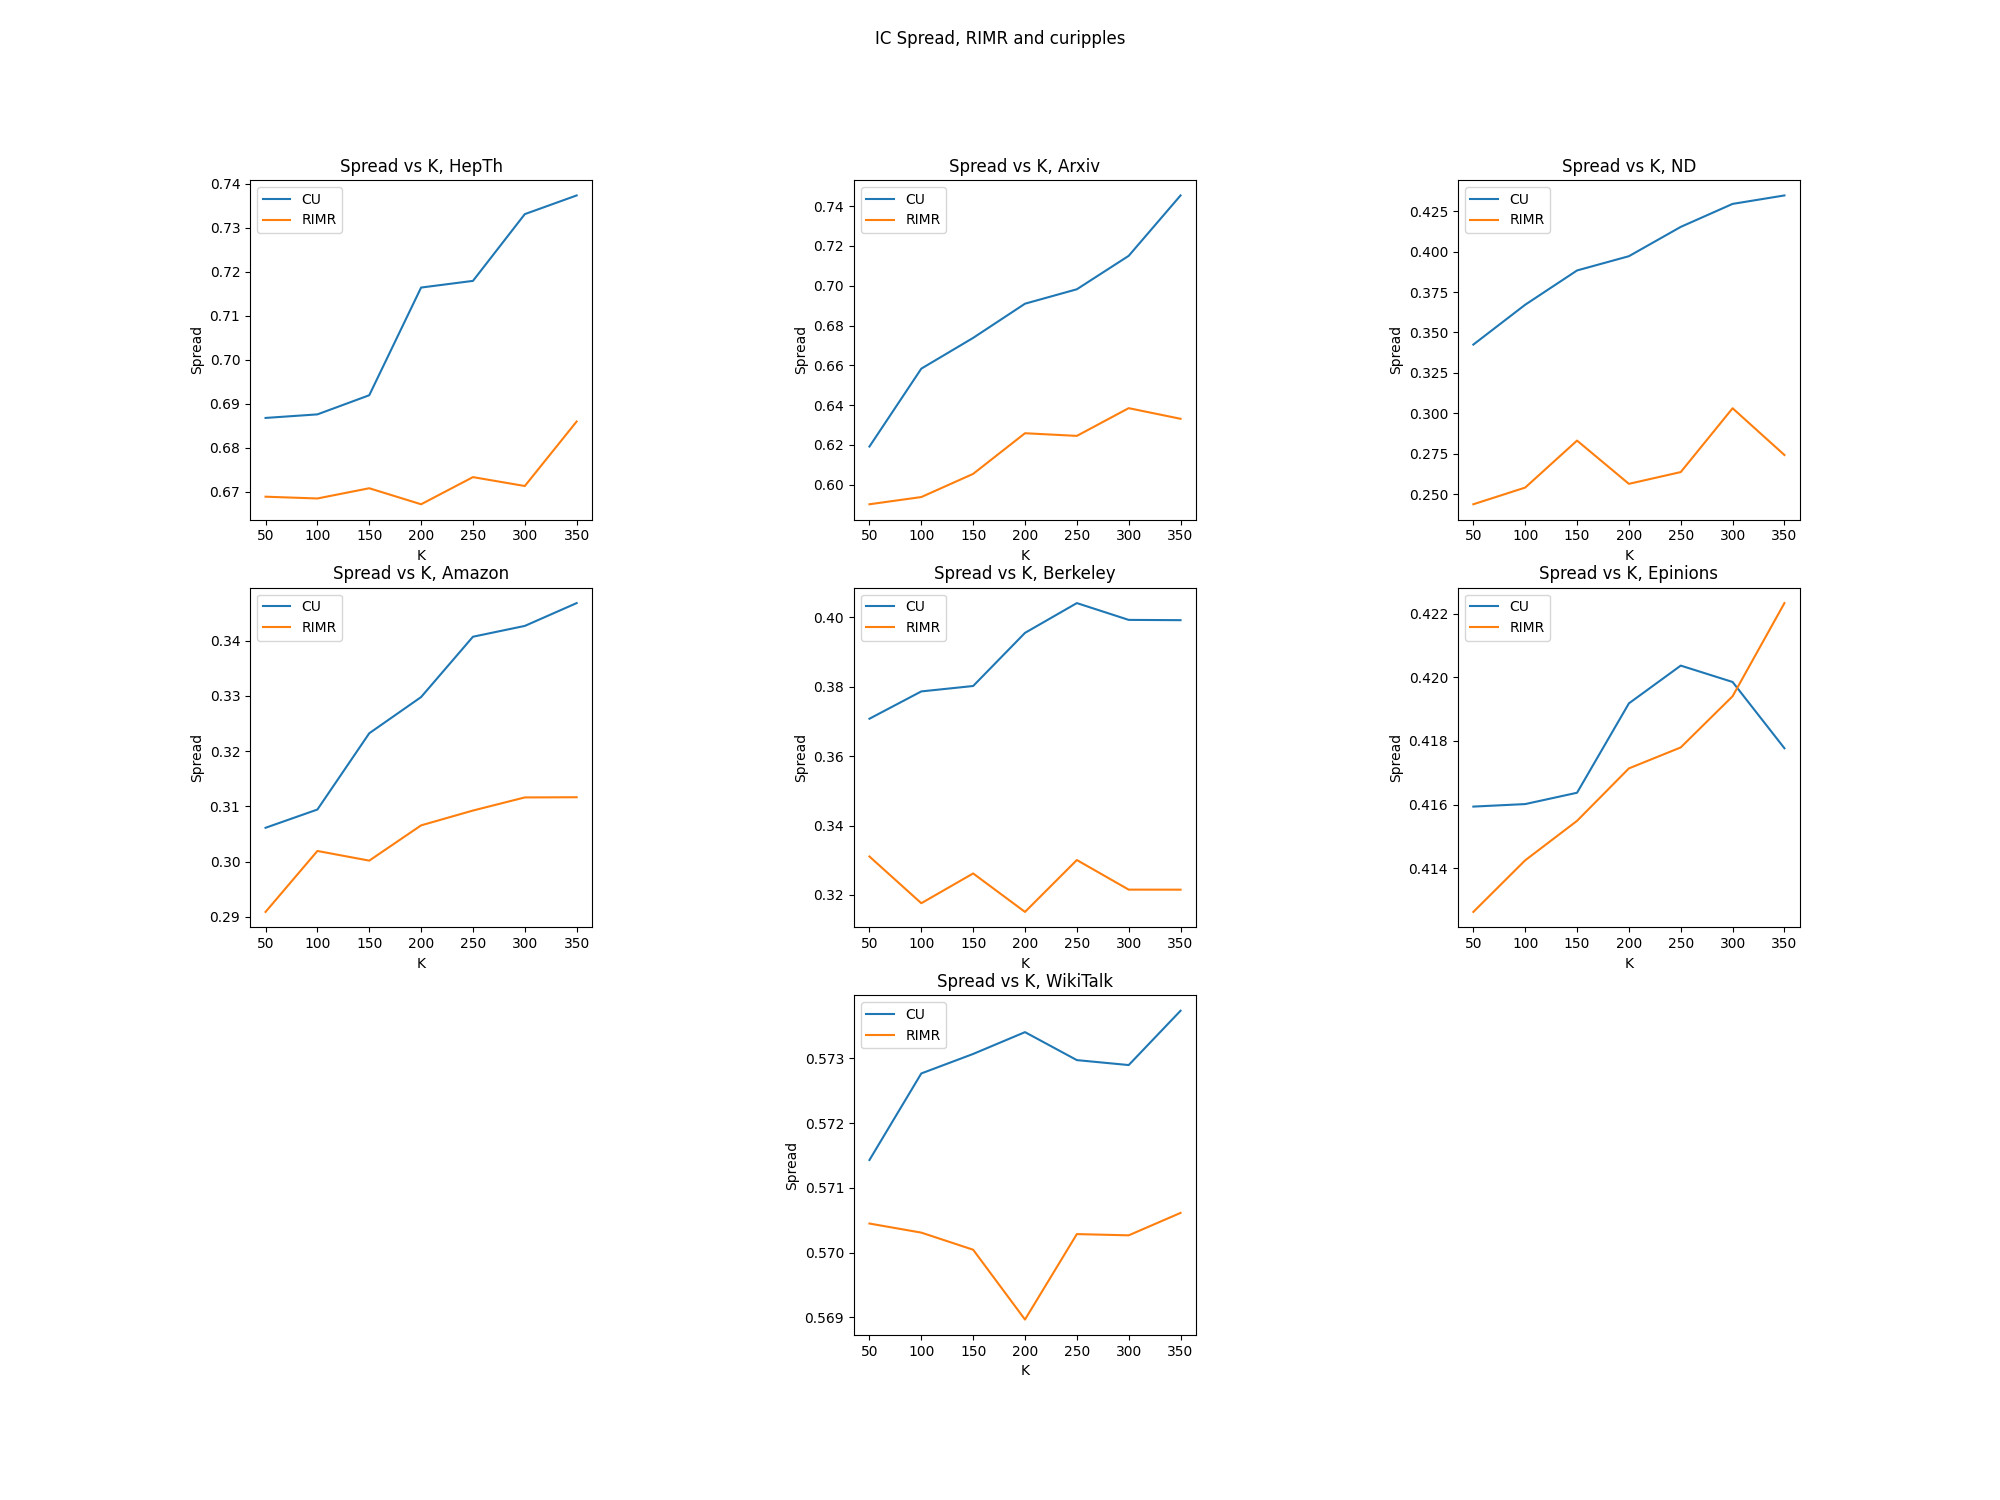
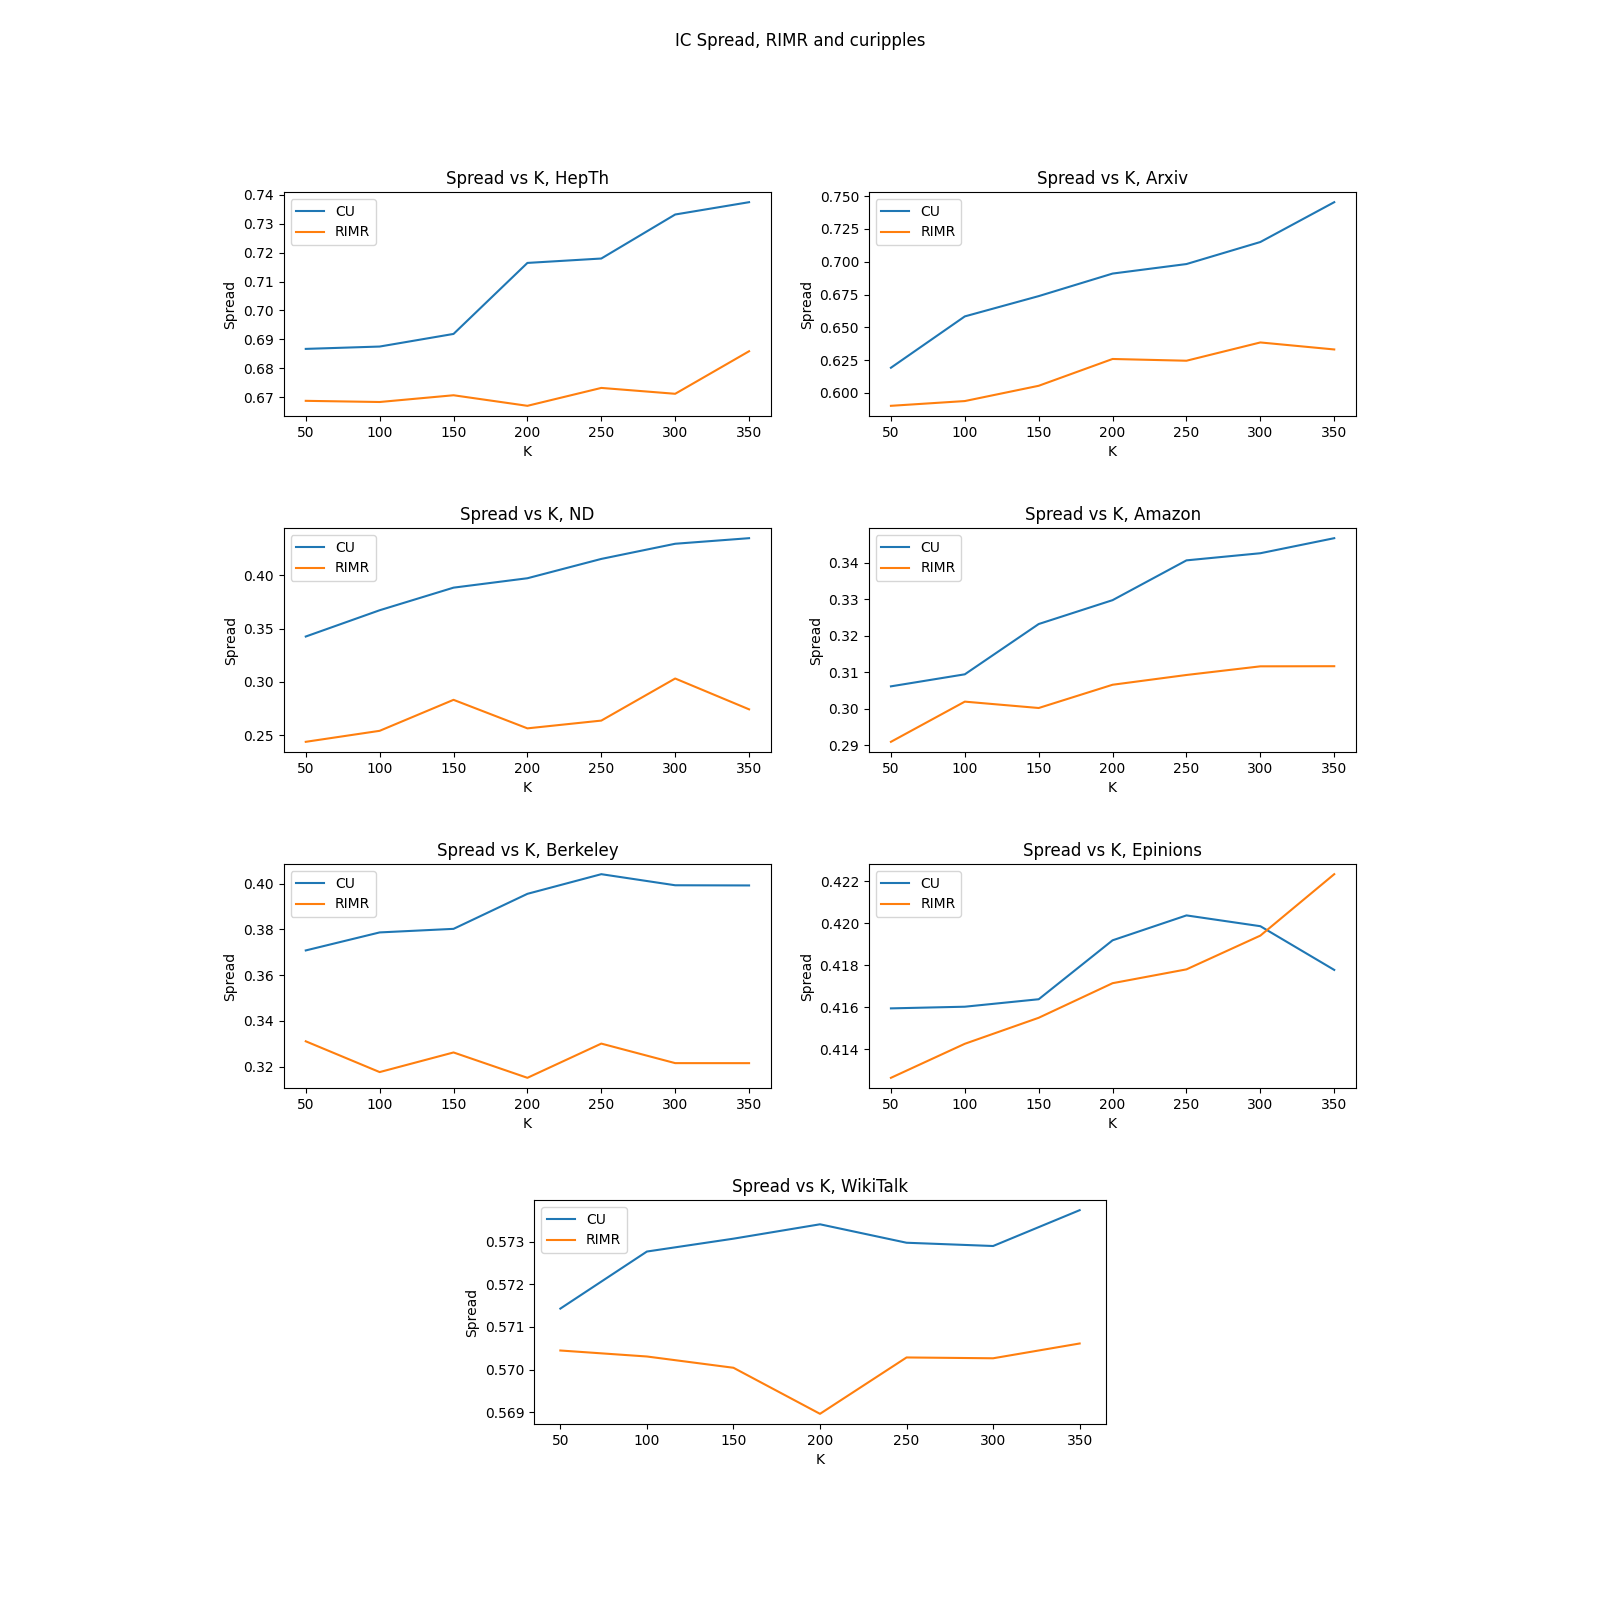
More stuff

diff --git a/RIM_data/gen_curip_graph.py b/RIM_data/gen_curip_graph.py
@@ -159,17 +159,21 @@ wiki_talk_ic_dist = wiki_talk_df.loc[:,"ic_dist"].to_numpy()
 
 
 fig = plt.figure()
-fig.set_figheight(15)
-fig.set_figwidth(20)
+fig.set_figheight(16)
+fig.set_figwidth(16)
 fig.suptitle("IC Spread, RIMR and curipples")
 
-ax1 = plt.subplot2grid((4, 14), (0, 0), colspan=6)
-ax2 = plt.subplot2grid((4, 14), (0, 7), colspan=6)
-ax3 = plt.subplot2grid((4, 13), (1,0), colspan=6)
-ax4 = plt.subplot2grid((4, 13), (1,7), colspan=6)
-ax5 = plt.subplot2grid((4, 13), (2,0), colspan=6)
-ax6 = plt.subplot2grid((4, 13), (2,7), colspan=6)
-ax7 = plt.subplot2grid((4, 13), (3,4), colspan=6)
+ax1 = plt.subplot2grid((4, 15), (0, 1), colspan=6)
+ax2 = plt.subplot2grid((4, 15), (0, 8), colspan=6)
+ax3 = plt.subplot2grid((4, 15), (1,1), colspan=6)
+ax4 = plt.subplot2grid((4, 15), (1,8), colspan=6)
+ax5 = plt.subplot2grid((4, 15), (2,1), colspan=6)
+ax6 = plt.subplot2grid((4, 15), (2,8), colspan=6)
+ax7 = plt.subplot2grid((4, 15), (3,4), colspan=7)
+
+# Add vertical space between the figures
+plt.subplots_adjust(hspace=0.5)
+
 
 
 
@@ -226,18 +230,21 @@ ax7.legend()
 fig.savefig("ic_spread_vs_K.png")
 
 fig = plt.figure()
-fig.set_figheight(15)
-fig.set_figwidth(20)
+fig.set_figheight(16)
+fig.set_figwidth(16)
 fig.suptitle("LT Spread, RIMR and curipples")
 
 
-ax1 = plt.subplot2grid((3, 13), (0, 0), colspan=3)
-ax2 = plt.subplot2grid((3, 13), (0, 5), colspan=3)
-ax3 = plt.subplot2grid((3, 13), (0,10), colspan=3)
-ax4 = plt.subplot2grid((3, 13), (1,0), colspan=3)
-ax5 = plt.subplot2grid((3, 13), (1,5), colspan=3)
-ax6 = plt.subplot2grid((3, 13), (1,10), colspan=3)
-ax7 = plt.subplot2grid((3, 13), (2,5), colspan=3)
+ax1 = plt.subplot2grid((4, 15), (0, 1), colspan=6)
+ax2 = plt.subplot2grid((4, 15), (0, 8), colspan=6)
+ax3 = plt.subplot2grid((4, 15), (1,1), colspan=6)
+ax4 = plt.subplot2grid((4, 15), (1,8), colspan=6)
+ax5 = plt.subplot2grid((4, 15), (2,1), colspan=6)
+ax6 = plt.subplot2grid((4, 15), (2,8), colspan=6)
+ax7 = plt.subplot2grid((4, 15), (3,4), colspan=7)
+
+# Add vertical space between the figures
+plt.subplots_adjust(hspace=0.5)
 
 
 ax1.set_xlabel("K")
@@ -301,18 +308,18 @@ fig.savefig("lt_spread_vs_K.png")
 
 
 fig = plt.figure()
-fig.set_figheight(15)
-fig.set_figwidth(20)
+fig.set_figheight(16)
+fig.set_figwidth(16)
 fig.suptitle("SpeedUp, RIMR and curipples, Streams = 10")
 
 
-ax1 = plt.subplot2grid((3, 13), (0, 0), colspan=3)
-ax2 = plt.subplot2grid((3, 13), (0, 5), colspan=3)
-ax3 = plt.subplot2grid((3, 13), (0,10), colspan=3)
-ax4 = plt.subplot2grid((3, 13), (1,0), colspan=3)
-ax5 = plt.subplot2grid((3, 13), (1,5), colspan=3)
-ax6 = plt.subplot2grid((3, 13), (1,10), colspan=3)
-ax7 = plt.subplot2grid((3, 13), (2,5), colspan=3)
+ax1 = plt.subplot2grid((4, 15), (0, 1), colspan=6)
+ax2 = plt.subplot2grid((4, 15), (0, 8), colspan=6)
+ax3 = plt.subplot2grid((4, 15), (1,1), colspan=6)
+ax4 = plt.subplot2grid((4, 15), (1,8), colspan=6)
+ax5 = plt.subplot2grid((4, 15), (2,1), colspan=6)
+ax6 = plt.subplot2grid((4, 15), (2,8), colspan=6)
+ax7 = plt.subplot2grid((4, 15), (3,4), colspan=7)
 
 ax1.set_xlabel("K")
 ax1.set_ylabel("Speedup")
